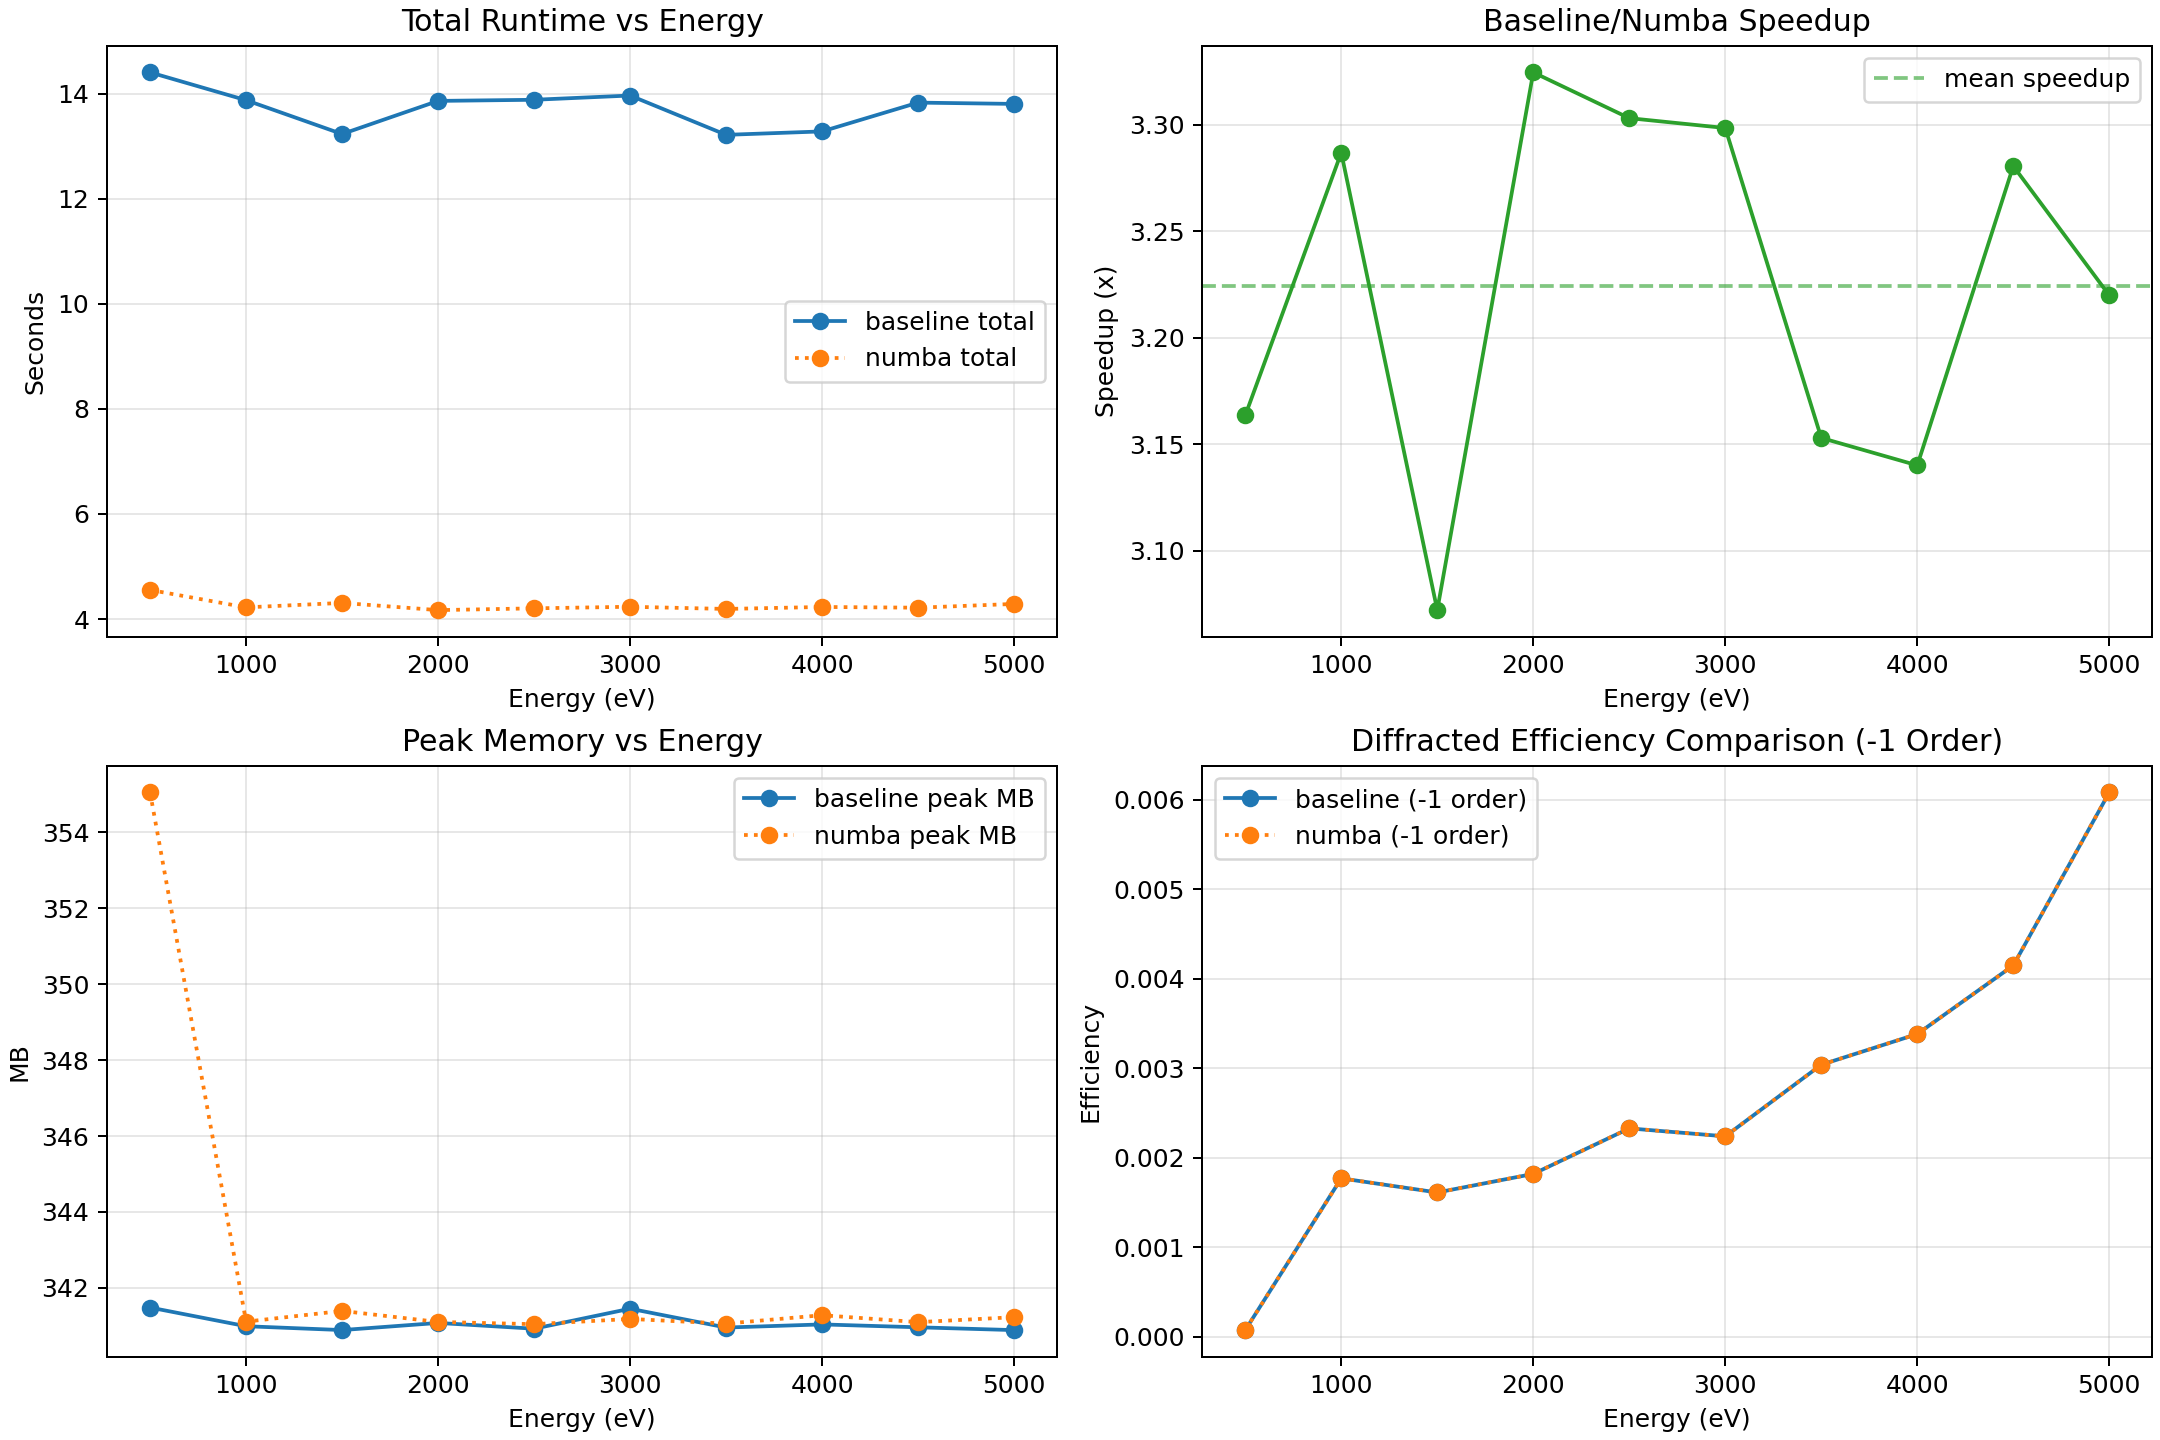
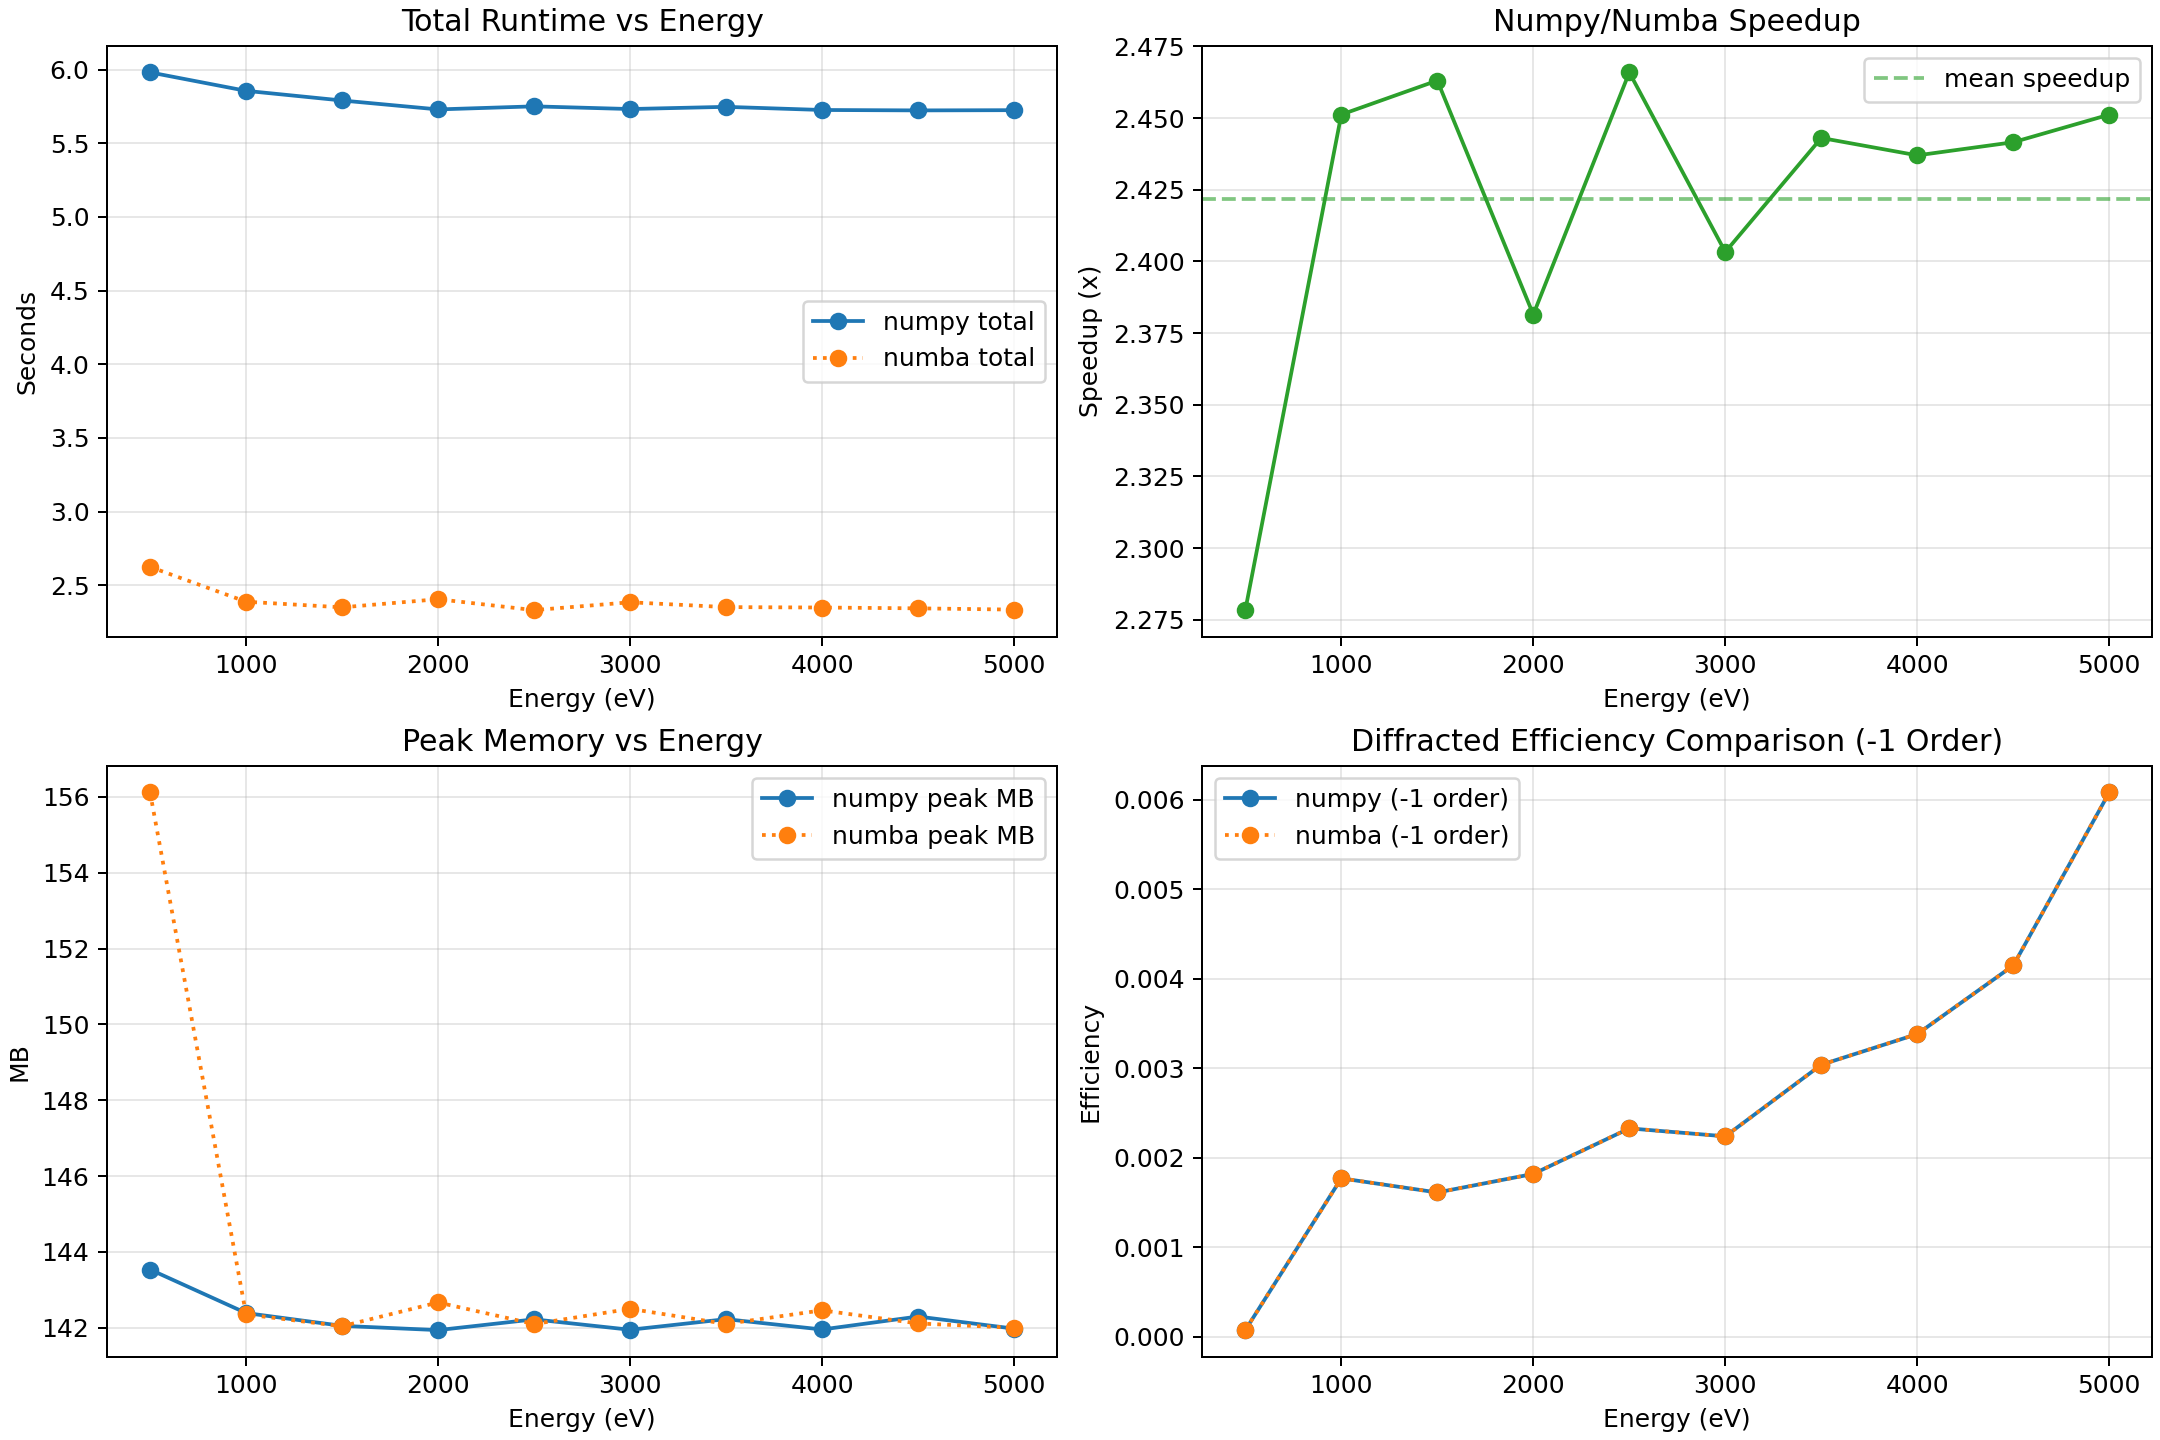
Refresh numba speed benchmarks

diff --git a/tools/numba_speed/profile_multi_energy_multilayer_numba_vs_legacy.py b/tools/numba_speed/profile_multi_energy_multilayer_numba_vs_legacy.py
@@ -170,7 +170,7 @@ for energy_ev in tqdm(ENERGIES_EV, desc="Multilayer RCWA comparison", unit="ener
 
 csv_path = OUTPUT_DIR / "multi_energy_multilayer_numba_vs_numpy.csv"
 with csv_path.open("w", encoding="utf-8", newline="") as handle:
-    writer = csv.DictWriter(handle, fieldnames=list(rows[0].keys()))
+    writer = csv.DictWriter(handle, fieldnames=list(rows[0].keys()), lineterminator="\n")
     writer.writeheader()
     writer.writerows(rows)
 

diff --git a/tools/numba_speed/profile_multi_energy_numba_vs_legacy.py b/tools/numba_speed/profile_multi_energy_numba_vs_legacy.py
@@ -124,7 +124,7 @@ for energy_ev in tqdm(energies, desc="Multi-energy RCWA comparison", unit="energ
 
 csv_path = output_dir / "multi_energy_numba_vs_numpy.csv"
 with csv_path.open("w", encoding="utf-8", newline="") as handle:
-    writer = csv.DictWriter(handle, fieldnames=list(rows[0].keys()))
+    writer = csv.DictWriter(handle, fieldnames=list(rows[0].keys()), lineterminator="\n")
     writer.writeheader()
     writer.writerows(rows)
 

diff --git a/tools/numba_speed/profile_single_rcwa_case.py b/tools/numba_speed/profile_single_rcwa_case.py
@@ -177,7 +177,7 @@ grazing_angle_deg = 4.0
 fourier_orders = 20
 x_resolution_nm = 0.1
 z_resolution_nm = 0.1
-fourier_backend_selection = "compare-numba-legacy"
+fourier_backend_selection = "compare-numpy-numba"
 output_dir = Path(__file__).resolve().parent / "results"
 
 output_dir.mkdir(parents=True, exist_ok=True)

diff --git a/tools/numba_speed/README.md b/tools/numba_speed/README.md
@@ -22,6 +22,7 @@ Both scripts use hardcoded RCWA settings:
 Single-case script also uses:
 
 - `energy_ev = 200.0`
+- backend selection: `compare-numpy-numba`
 
 Multi-energy script uses a configurable energy range with defaults:
 
@@ -52,7 +53,7 @@ Optional arguments:
 - Multi-energy:
   - none (fully reproducible fixed settings)
 - Plotting:
-  - `--csv-path` (default: `tools/numba_speed/results/multi_energy_numba_vs_legacy.csv`)
+  - `--csv-path` (default: `tools/numba_speed/results/multi_energy_numba_vs_numpy.csv`)
   - `--output-dir` (default: `tools/numba_speed/results`)
 
 ## Created results
@@ -60,19 +61,16 @@ Optional arguments:
 Single-case script writes:
 
 - `single_rcwa_profile_report.txt` (copy of first backend report)
-- `single_rcwa_profile_report_baseline.txt`
-- `single_rcwa_profile_report_numba_optional.txt`
-- `single_rcwa_profile_comparison_numba_vs_legacy.txt`
+- `single_rcwa_profile_report_numpy.txt`
+- `single_rcwa_profile_report_numba.txt`
+- `single_rcwa_profile_comparison_numba_vs_numpy.txt`
 
-When `--fourier-backend all` is used, it also writes backend-specific reports for:
-
-- `baseline`
-- `numba-optional`
+The first backend is `numpy`; the second backend is `numba`.
 
 Multi-energy script writes:
 
 - `multi_energy_numba_vs_legacy.txt` (human-readable summary)
-- `multi_energy_numba_vs_legacy.csv` (per-energy tabular data)
+- `multi_energy_numba_vs_numpy.csv` (per-energy tabular data)
 
 Plot script writes:
 
@@ -80,12 +78,12 @@ Plot script writes:
 
 The plot includes:
 
-- Total runtime vs energy (baseline vs numba)
-- Fourier-stage runtime vs energy (baseline vs numba)
+- Total runtime vs energy (numpy vs numba)
+- Fourier-stage runtime vs energy (numpy vs numba)
 - Speedup vs energy
 - Fourier fraction of runtime
 - Peak memory vs energy
-- Diffracted-efficiency comparison panel (baseline reference vs numba values)
+- Diffracted-efficiency comparison panel (numpy reference vs numba values)
 
 All subplot axes are rendered without scientific-notation tick labels.
 
